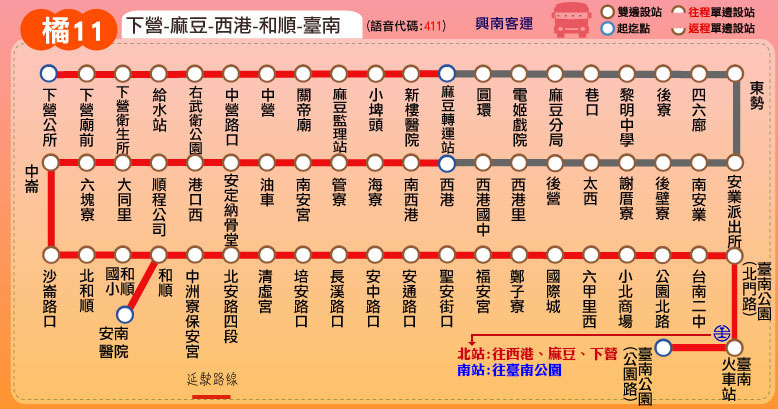
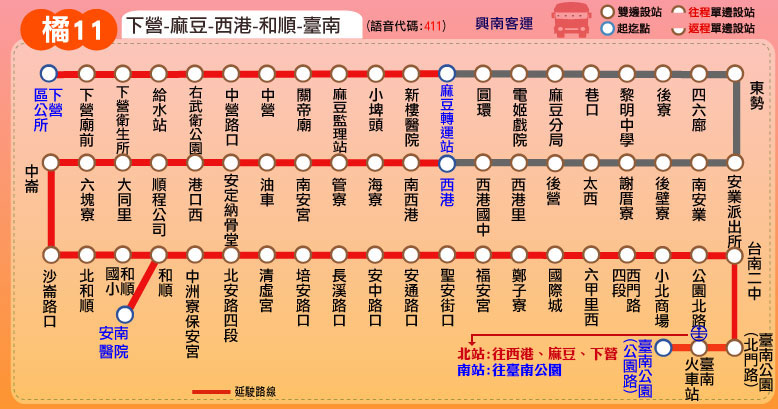
新增站位：黃7(增「嶺南里路口」)、橘3、橘11(增「西門路四段」)

diff --git a/route/fare_and_time/orange_11.js b/route/fare_and_time/orange_11.js
@@ -1,6 +1,6 @@
 orange_11_interval_name = ["下營","中營","麻豆","安業","謝厝寮","後營","西港","海寮","管寮","南安","港口","六塊寮","中崙","和順","北安路","臺南"];
-orange_11_interval_stop = [ // 2017.02.04 checked
-["下營公所","下營廟前","下營衛生所","給水站","右武衛公園"], // 下營
+orange_11_interval_stop = [ // 2018.07.03 checked
+["下營區公所","下營廟前","下營衛生所","給水站","右武衛公園"], // 下營
 ["中營路口","中營"], // 中營
 ["關帝廟","麻豆監理站","小埤頭","新樓醫院","麻豆轉運站","圓環","電姬戲院","麻豆分局","巷口","黎明中學","後寮","四六廍"], // 麻豆
 ["東勢","安業派出所","南安業"], // 安業
@@ -15,7 +15,7 @@ orange_11_interval_stop = [ // 2017.02.04 checked
 ["中崙"], // 中崙
 ["沙崙路口","北和順","和順國小","和順","安南醫院","中洲寮保安宮"], // 和順
 ["北安路四段","清虛宮","培安路口","長溪路口","安中路口","安通路口","聖安街口"], // 北安路
-["福安宮","鄭子寮","國際城","六甲里西","小北商場","公園北路","臺南二中","臺南公園(北門路)","臺南火車站","臺南公園(公園路)"] // 臺南
+["福安宮","鄭子寮","國際城","六甲里西","西門路四段","小北商場","公園北路","臺南二中","臺南公園(北門路)","臺南火車站","臺南公園(公園路)"] // 臺南
 ];
 orange_11_fare = [
 [26],
@@ -38,10 +38,10 @@ orange_11_fare = [
 // format = [time at the start stop] or
 // [time, other] or
 // [time, start_stop, end_stop, other]
-orange_11_main_stop_name = ["下營<br />公所","中營","麻豆<br />轉運站","黎明<br />中學","西港","南安宮","中崙","和順","安南<br />醫院","安通<br />路口","臺南<br />火車站","臺南公園<br />(公園路)"];
+orange_11_main_stop_name = ["下營<br />區公所","中營","麻豆<br />轉運站","黎明<br />中學","西港","南安宮","中崙","和順","安南<br />醫院","安通<br />路口","臺南<br />火車站","臺南公園<br />(公園路)"];
 orange_11_main_stop_time_consume = [0, 8, 25, 32, 45, 58, 65, 69, 70, 80, 95, 100];
-orange_11_important_stop = [0, 2, 4, 8, 10, 11]; // 下營公所, 麻豆轉運站, 西港, 安南醫院, 臺南火車站, 臺南公園(公園路)
-var Hsiaying = 0; // 下營公所
+orange_11_important_stop = [0, 2, 4, 8, 10, 11]; // 下營區公所, 麻豆轉運站, 西港, 安南醫院, 臺南火車站, 臺南公園(公園路)
+var Hsiaying = 0; // 下營區公所
 var start_stop = 2; // 麻豆轉運站
 var end_stop = 4; // 西港
 var AnNan_hospital = 8; // 安南醫院

diff --git a/route/fare_and_time/yellow_7.js b/route/fare_and_time/yellow_7.js
@@ -1,19 +1,21 @@
-yellow_7_interval_name = ["新營","頂窩","北勢寮","東河","北馬","東山","大客","武嶺","番子嶺","斑芝<br />花坑","東原","瓦厝","崎腳","青山","仙公廟"];
-yellow_7_interval_stop = [ // 2016.02.14 checked
-["新營站","三商","圓環(第一銀行)","文化中心","新營區公所","臺南市農會","中營里","東山中路"], // 新營
-["頂窩","東營"], // 頂窩
+yellow_7_interval_name = ["新營","頂窩","北勢寮","東河","北馬","東山","大客","武嶺","番子嶺","斑芝<br />花坑","東原","瓦厝","崎腳","青山","南寮口","二坑埔","仙公廟"];
+yellow_7_interval_stop = [ // 2018.07.03 checked
+["新營站","興業里","圓環(第一銀行)","文化中心","新營區公所","臺南市農會"], // 新營
+["中營里","東山中路","頂窩","東營"], // 頂窩
 ["北勢寮","聖賢國小"], // 北勢寮
 ["東河","吉貝耍","枋子林"], // 東河
 ["北馬"], // 北馬
 ["東山國中","東山國小","北東山","木柵","代天宮","許秀才","東山","嘉東"], // 東山
 ["凹子腳","大客","下庄","科里"], // 大客
 ["武嶺"], // 武嶺
-["番子嶺"], // 番子嶺
-["開門橋","萬應公廟","番子厝","斑芝花坑","斑花橋","柿子寮"], // 斑芝花坑
-["三塊厝","西東原","東原"], // 東原
+["番子嶺","開門橋","萬應公廟","番子厝"], // 番子嶺
+["斑芝花坑","斑花橋","柿子寮"], // 斑芝花坑
+["三塊厝","嶺南里路口","西東原","東原"], // 東原
 ["瓦厝","東原國中","竹圍埔"], // 瓦厝
-["崎腳"], // 崎腳
-["店子前","下子店","青山","田寮仔","南寮口","鴨母寮","內埔仔","下二坑","二坑埔","仙公廟牌樓","凍腳"], // 青山
+["崎腳","店子前"], // 崎腳
+["下子店","青山"], // 青山
+["田寮仔","南寮口","鴨母寮","內埔仔","下二坑"], // 南寮口
+["二坑埔","仙公廟牌樓","凍腳"], // 二坑埔
 ["仙公廟"] // 仙公廟
 ];
 yellow_7_fare = [
@@ -31,7 +33,9 @@ yellow_7_fare = [
 [75,66,61,51,45,35,28,26,26,26,26,26],
 [80,71,66,56,50,40,33,29,27,26,26,26,26],
 [83,74,69,59,53,43,36,33,30,26,26,26,26,26],
-[109,100,95,85,79,69,62,58,56,46,36,34,29,26,26]
+[87,78,73,63,57,47,41,37,34,26,26,26,26,26,26],
+[96,87,82,72,65,55,49,45,43,33,26,26,26,26,26,26],
+[109,100,95,85,79,69,62,58,56,46,36,34,29,26,26,26,26]
 ];
 // format = [time at the start stop] or
 // [time, other] or

diff --git a/route/fare_and_time/orange_3.js b/route/fare_and_time/orange_3.js
@@ -1,17 +1,17 @@
 orange_3_interval_name = ["善化<br />轉運站","善化","烏橋","蘇厝","安定","港子尾","港口","六塊寮","中崙","和順","北安路","臺南"];
 orange_3_interval_stop = [
-["善化轉運站"], // 善化轉運站
-["樹人路口","善化公所","移民署","善化","三民路口","圓頂","西善化"], // 善化
+["善化轉運站","樹人路口"], // 善化轉運站
+["善化區公所","移民署","善化","三民路口","圓頂","西善化"], // 善化
 ["烏橋","西衛"], // 烏橋
 ["東蘇厝","蘇厝","真護宮"], // 蘇厝
-["安定國小","安定公所","安定","南安定","安定工業區"], // 安定
+["安定國小","安定區公所","安定","南安定","安定工業區"], // 安定
 ["港子尾"], // 港子尾
 ["港口北","中榮里口","許中營","中榮公園","港口","順程公司"], // 港口
 ["大同里","六塊寮"], // 六塊寮
-["中崙","沙崙路口"], // 中崙
-["北和順","和順國小","和順","安南醫院","中洲寮保安宮"], // 和順
+["中崙"], // 中崙
+["沙崙路口","北和順","和順國小","和順","安南醫院","中洲寮保安宮"], // 和順
 ["北安路四段","清虛宮","培安路口","長溪路口","安中路口","安通路口","聖安街口"], // 北安路
-["福安宮","鄭子寮","國際城","六甲里西","小北商場","公園北路","臺南二中","臺南公園(北門路)","臺南火車站","臺南公園(公園路)"] // 臺南
+["福安宮","鄭子寮","國際城","六甲里西","西門路四段","小北商場","公園北路","臺南二中","臺南公園(北門路)","臺南火車站","臺南公園(公園路)"] // 臺南
 ];
 orange_3_fare = [
 [26],
